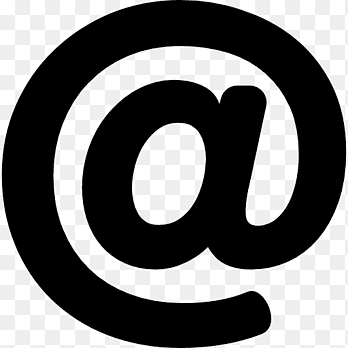
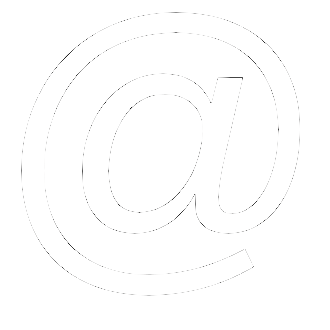
Petits changement visuels

diff --git a/style.css b/style.css
@@ -494,7 +494,7 @@ section {
 }
 
 .contact-link-label {
-  font-family: var(--font-mono);
+  font-family: var(--font-body);
   font-size: 12px;
   color: var(--text-dim);
   margin-bottom: 2px;
